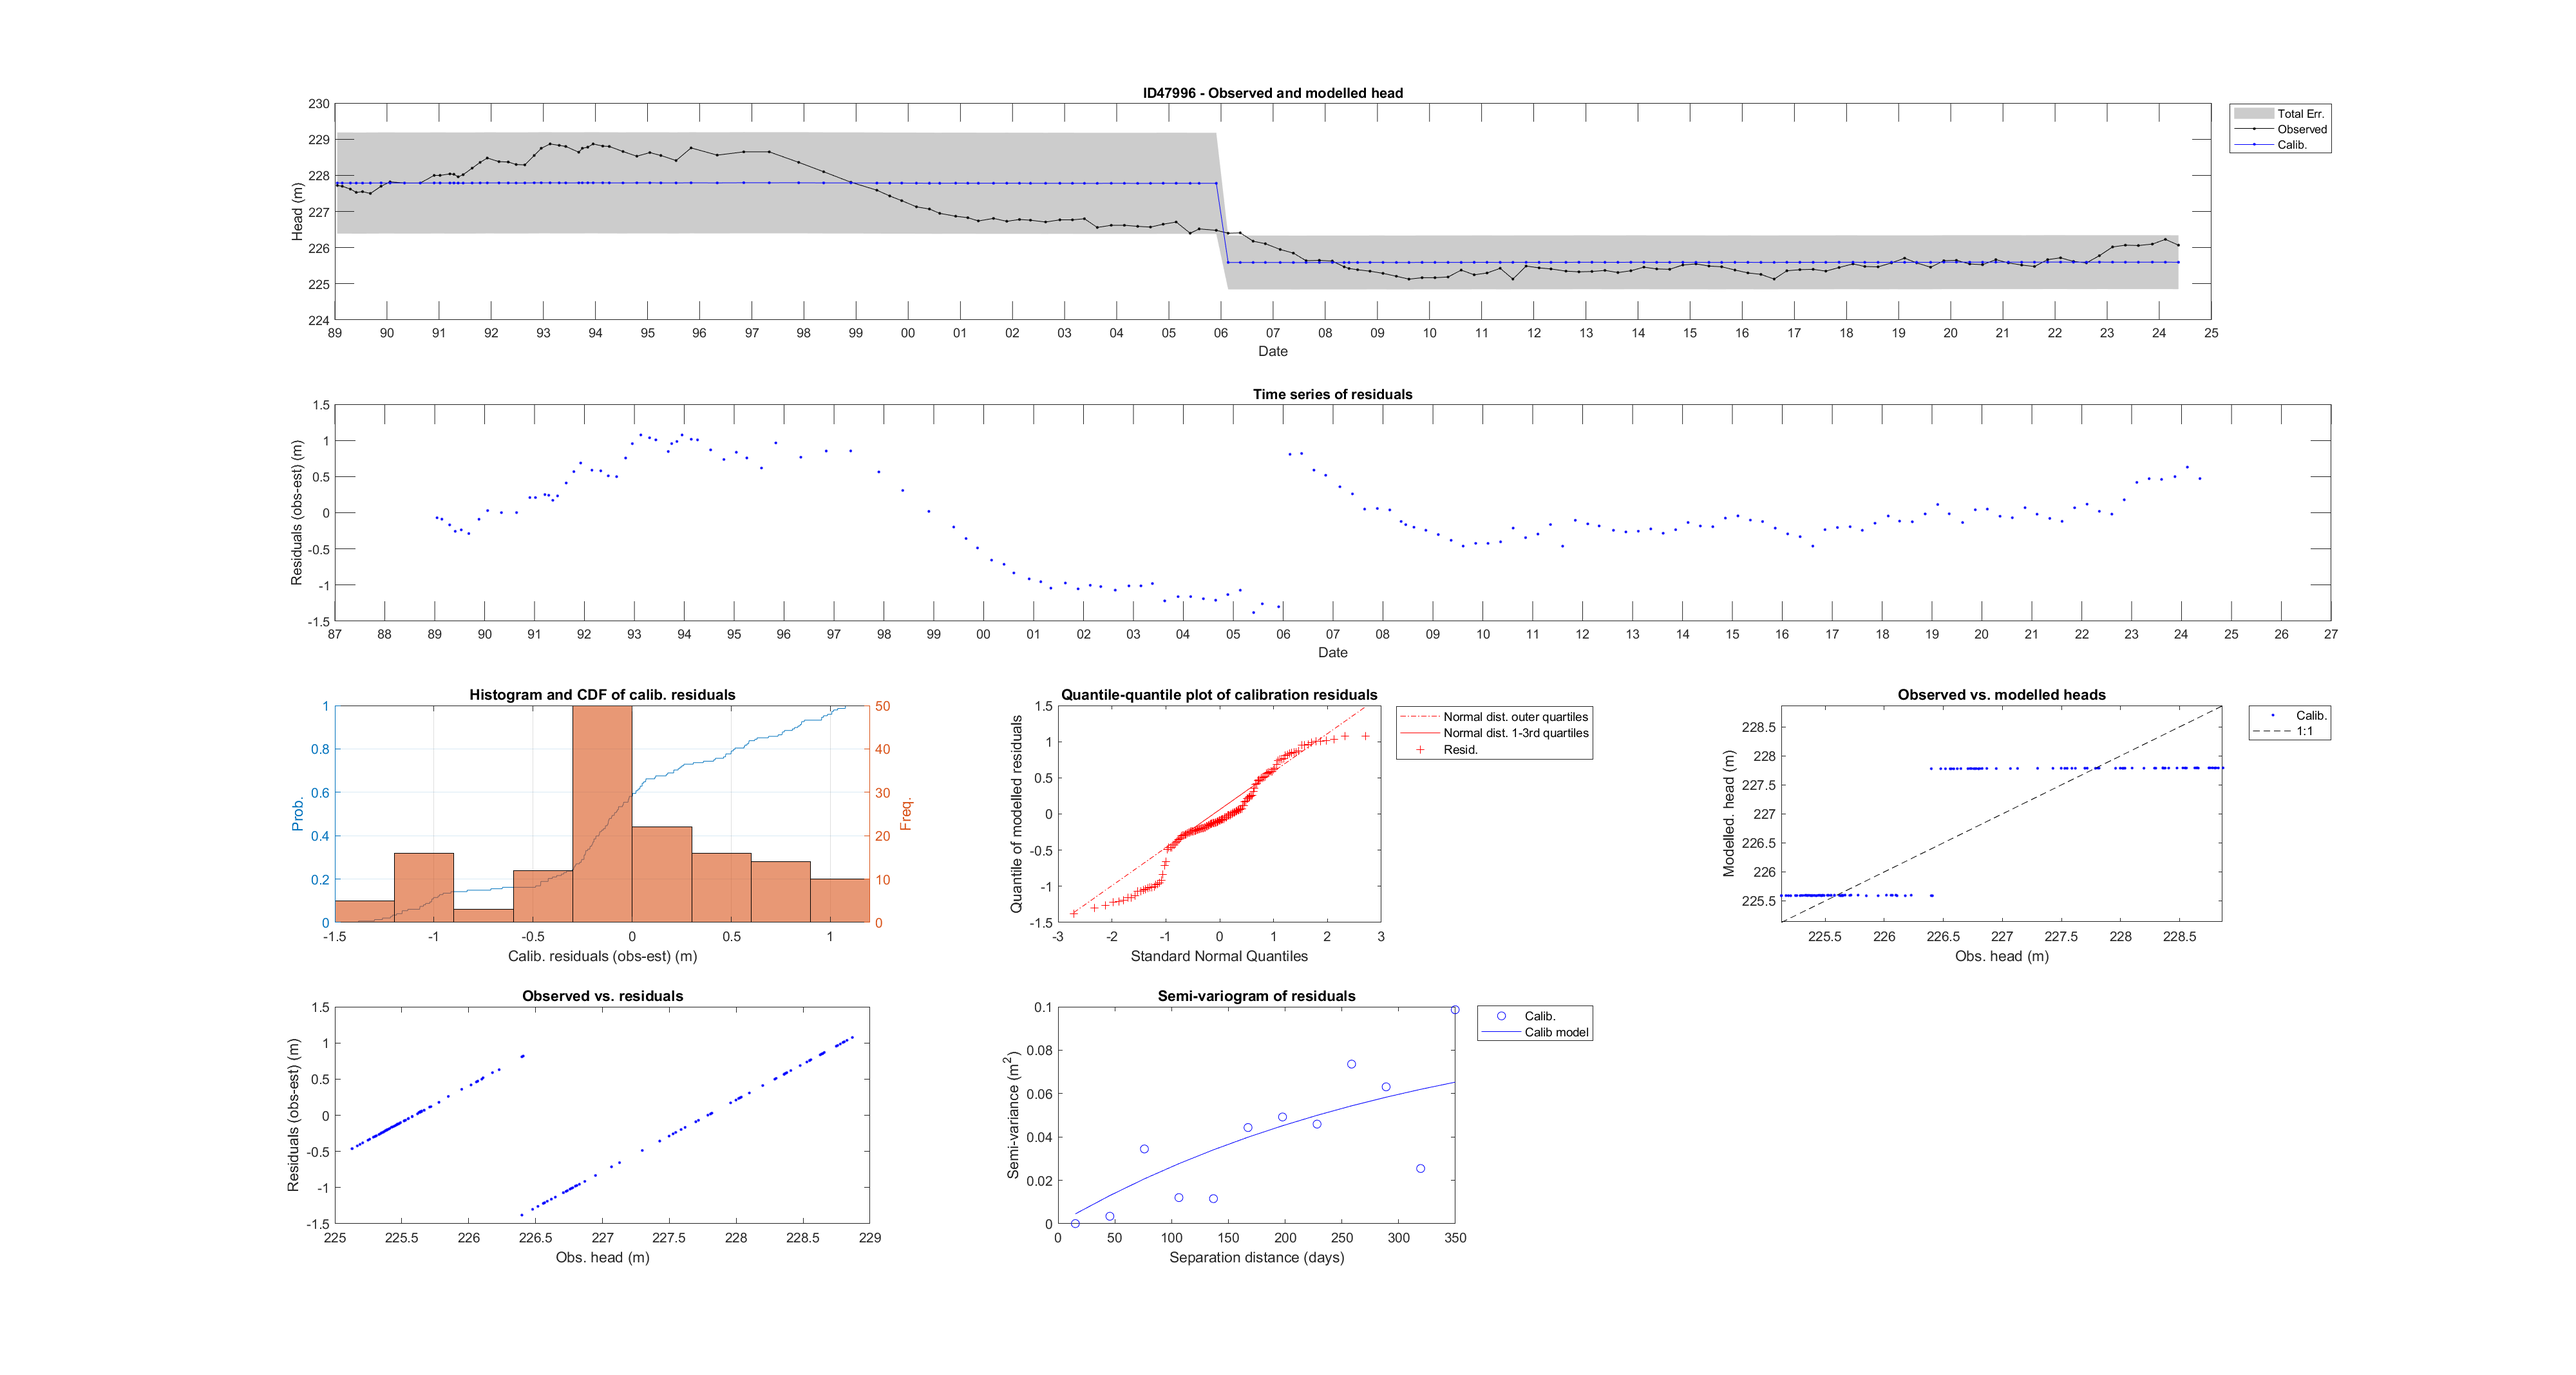
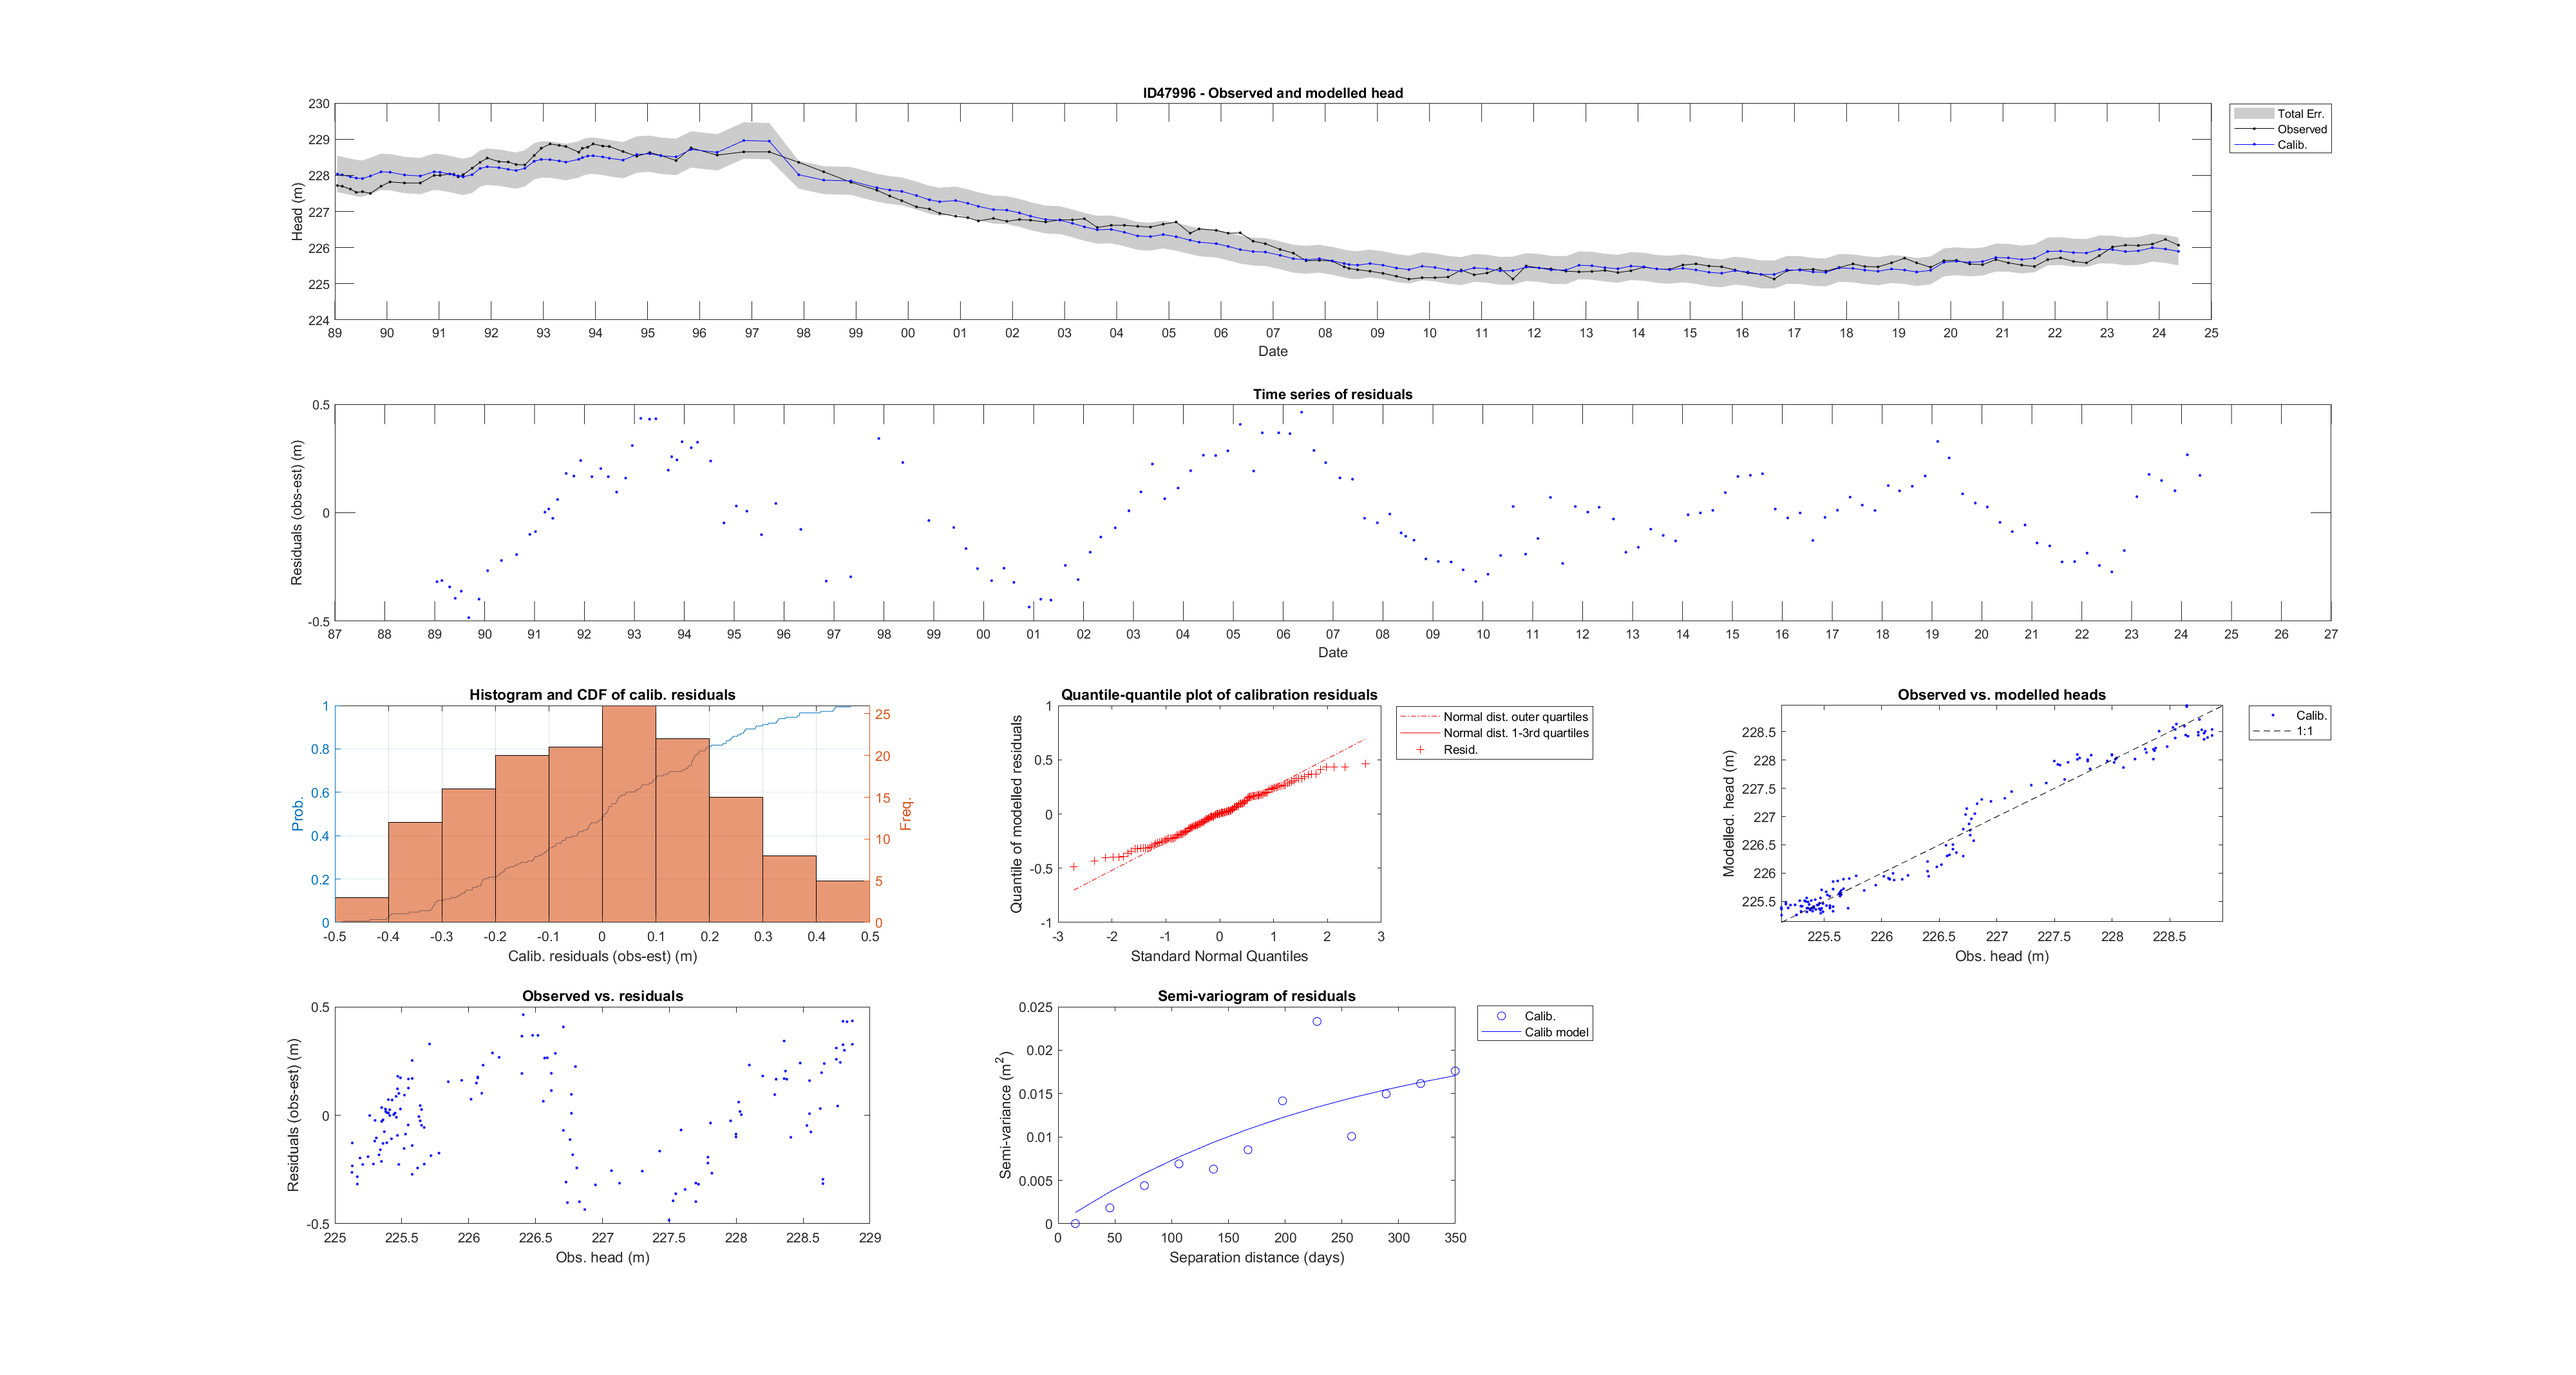
47996

diff --git a/additionalPlots.m b/additionalPlots.m
@@ -8,51 +8,95 @@ list = {'46854','47996','54925','56252','62427','63740','64139','66622', ...
     '108944','110104','110166','110197','110738','111525','111530','111691','112236', ...
     '119429','141235'}';
 
-for k = 1:2 %1:length(list)
-    filename = list{k};
+fourPlotsOneAxes = false;
 
-    % Load Single State model
-    load(filename + "_model_6params_1.mat");
-    time_obs = model_6params.model.inputData.head(:,1);
-    head_obs = model_6params.model.inputData.head(:,2);
-    time_steps_single = model_6params.simulationResults{1,1}.head(:,1);
-    head_1 = model_6params.simulationResults{1,1}.head(:,2);
+if fourPlotsOneAxes == true
+    for k = 2 %1:length(list)
+        filename = list{k};
 
-    clear model_6params;
+        % Load Single State model
+        load(filename + "_model_6params_1.mat");
+        time_obs = model_6params.model.inputData.head(:,1);
+        head_obs = model_6params.model.inputData.head(:,2);
+        time_steps_single = model_6params.simulationResults{1,1}.head(:,1);
+        head_1 = model_6params.simulationResults{1,1}.head(:,2);
 
-    % Load Two State model
-    load(filename + "_model_6params_2.mat");
-    time_steps_two = model_6params.simulationResults{1,1}.head(:,1);
-    head_2 = model_6params.simulationResults{1,1}.head(:,2);
-    
-    figure(k);
-    plot(time_steps_single,head_1,'color', [.5 .5 .5],'LineStyle','--');
-    hold on;
-    plot(time_obs,head_obs,'k');
-    
-    stateHead = model_6params.model.variables.StateHead;
-    stateHead_1 = stateHead;
-    stateHead_2 = stateHead;
+        clear model_6params;
 
-    for j = 1:size(stateHead_1, 1)
-        if stateHead_2(j, 3) == 2
-            stateHead_2(j, 2) = NaN;
+        % Load Two State model
+        load(filename + "_model_6params_2.mat");
+        time_steps_two = model_6params.simulationResults{1,1}.head(:,1);
+        head_2 = model_6params.simulationResults{1,1}.head(:,2);
+
+        figure(k);
+        plot(time_steps_single,head_1,'color', [.5 .5 .5],'LineStyle','--');
+        hold on;
+        plot(time_obs,head_obs,'k');
+
+        stateHead = model_6params.model.variables.StateHead;
+        stateHead_1 = stateHead;
+        stateHead_2 = stateHead;
+
+        for j = 1:size(stateHead_1, 1)
+            if stateHead_2(j, 3) == 2
+                stateHead_2(j, 2) = NaN;
+            end
         end
-    end
 
-    t = time_obs;
-    plot(t, stateHead(:,2),'.-b','LineWidth',0.025);
-    plot(t,stateHead_1(:,2),"Marker",".","Color","r");
-    plot(t,stateHead_2(:,2),"Marker",".","Color",'b');
-    tspan = min(t):1:max(t);
-    filt = day(tspan)==1 & month(tspan)==1;
-    tspan = tspan(filt);
-    yspan = year(tspan);
-    xticks(gca,tspan);
-    xticklabels(gca,yspan);
-    title(['ID' filename ' Two-State Solved Plot Compared to Single-State Solved Plot']);
-    legend('Single State Model','Observed Groundwater Head','State 1','State 2');
-    hold off
-    
-    % ADD Additional h_stars from model_6params.model.variables.h_stars
+        t = time_obs;
+        plot(t, stateHead(:,2),'.-b','LineWidth',0.025);
+        plot(t,stateHead_1(:,2),"Marker",".","Color","r");
+        plot(t,stateHead_2(:,2),"Marker",".","Color",'b');
+        tspan = min(t):1:max(t);
+        filt = day(tspan)==1 & month(tspan)==1;
+        tspan = tspan(filt);
+        yspan = year(tspan);
+        xticks(gca,tspan);
+        xticklabels(gca,yspan);
+        title(['ID' filename ' Two-State Solved Plot Compared to Single-State Solved Plot']);
+        legend('Single State Model','Observed Groundwater Head','State 1','State 2');
+        hold off
+
+        % ADD Additional h_stars from model_6params.model.variables.h_stars
+    end
+end
+
+if fourPlotsOneAxes == false
+    for k = 2 %1:length(list)
+        filename = list{k};
+
+        % Load Two State model
+        load(filename + "_model_6params_2.mat");
+        time_steps = model_6params.simulationResults{1,1}.head(:,1);
+        head_obs = model_6params.model.inputData.head(:,2);
+        head_model1 = model_6params.model.variables.h_stars(:,2); %hstars(:,2)
+        head_model2 = model_6params.model.variables.h_stars(:,3); %hstars(:,3)
+
+        figure(k);
+        plot(time_steps,head_obs,'k');
+        hold on;
+
+        dryIndex = model_6params.model.variables.StateHead;
+        plot(time_steps, dryIndex(:,2),'.-b','LineWidth',0.025);
+        plot(time_steps, head_model1,'.-b','LineWidth',0.025);
+
+        for j = 1:size(dryIndex, 1)
+            if dryIndex(j, 3) == 1
+                dryIndex(j, 2) = NaN;
+            end
+        end
+
+        plot(time_steps,dryIndex(:,2),"Marker",".","Color","r");
+        tspan = min(time_steps):1:max(time_steps);
+        filt = day(tspan)==1 & month(tspan)==1;
+        tspan = tspan(filt);
+        yspan = year(tspan);
+        xticks(gca,tspan);
+        xticklabels(gca,yspan);
+        title(['ID' filename]);
+        legend('Observed Groundwater Head','Wet State','Modelled Wet State','Dry State');
+        hold off
+
+        % ADD Additional h_stars from model_6params.model.variables.h_stars
+    end
 end

diff --git a/loopingSitesPlot.m b/loopingSitesPlot.m
@@ -21,7 +21,7 @@ load("bore_northingeasting.mat");
 
 residualMean = zeros(length(list),2);
 
-for i = 1 %17:length(list)
+for i = 2 %17:length(list)
     filename = list{i};
 
     load(filename + "_boreData.mat");
@@ -55,49 +55,49 @@ for i = 1 %17:length(list)
 
     % % Build the 6 parameter model.
     modelLabel = bore_ID;
-    % 
-    % % HMM 2 State Model
-    % model_6params = HydroSightModel(modelLabel, bore_ID, 'model_TFN_HMM', boreDataWL, maxObsFreq, forcingDataStruct, siteCoordinates, modelOptions_6params);
+
+    % HMM 2 State Model
+    model_6params = HydroSightModel(modelLabel, bore_ID, 'model_TFN_HMM', boreDataWL, maxObsFreq, forcingDataStruct, siteCoordinates, modelOptions_6params);
+    SchemeSetting.ngs = 12*12;
+    calibrateModel(model_6params, [], 0, inf, 'SP-UCI', SchemeSetting);
+    calibrateModelPlotResults(model_6params,[]);
+    calibratedPlot_twoState = gca;
+    saveas(gca,['downloads/plots/' filename '_calibratedPlot.png']);
+
+    time_points = model_6params.model.variables.time_points;
+    newForcingData = [];
+    simulationLabel = 'default simulation';
+    doKrigingOnResiduals = false;    
+
+    solveModel(model_6params, time_points, newForcingData, simulationLabel, doKrigingOnResiduals);
+    title([bore_ID ' Two-State Solved Plot']);
+    solvedPlot_twoState = gca;
+    saveas(gca,['downloads/plots/' filename '_solved2StatePlot.png']);
+    residualMean(i,1) = model_6params.model.variables.residualMean;
+    save(['downloads/plots/' filename '_model_6params_2.mat'],"model_6params");
+    clear model_6params;
+
+    % HMM 1 State Model
+    % model_6params = HydroSightModel(modelLabel, bore_ID, 'model_TFN_HMM_2', boreDataWL, maxObsFreq, forcingDataStruct, siteCoordinates, modelOptions_6params);
     % SchemeSetting.ngs = 10*12;
     % calibrateModel(model_6params, [], 0, inf, 'SP-UCI', SchemeSetting);
     % calibrateModelPlotResults(model_6params,[]);
-    % calibratedPlot_twoState = gca;
-    % saveas(gca,['downloads/plots/' filename '_calibratedPlot.png']);
+    % calibratedPlot_singleState = gca;
+    % saveas(gca,['downloads/plots/' filename '_calibratedPlot_singlestate.png']);
     % 
     % time_points = model_6params.model.variables.time_points;
     % newForcingData = [];
     % simulationLabel = 'default simulation';
     % doKrigingOnResiduals = false;    
     % 
-    % solveModel(model_6params, time_points, newForcingData, simulationLabel, doKrigingOnResiduals);
-    % title([bore_ID ' Two-State Solved Plot']);
-    % solvedPlot_twoState = gca;
-    % saveas(gca,['downloads/plots/' filename '_solved2StatePlot.png']);
-    % residualMean(i,1) = model_6params.model.variables.residualMean;
-    % save(['downloads/plots/' filename '_model_6params_2.mat'],"model_6params");
-    % clear model_6params;
-
-    % HMM 1 State Model
-    model_6params = HydroSightModel(modelLabel, bore_ID, 'model_TFN_HMM_2', boreDataWL, maxObsFreq, forcingDataStruct, siteCoordinates, modelOptions_6params);
-    SchemeSetting.ngs = 10*12;
-    calibrateModel(model_6params, [], 0, inf, 'SP-UCI', SchemeSetting);
-    calibrateModelPlotResults(model_6params,[]);
-    calibratedPlot_singleState = gca;
-    saveas(gca,['downloads/plots/' filename '_calibratedPlot_singlestate.png']);
-
-    time_points = model_6params.model.variables.time_points;
-    newForcingData = [];
-    simulationLabel = 'default simulation';
-    doKrigingOnResiduals = false;    
-    
-    solveModel(model_6params, time_points, newForcingData, simulationLabel, doKrigingOnResiduals);  
-    title([bore_ID ' One-State Solved Plot']);
-    solvedPlot_singleState = gca;
-    saveas(gca,['downloads/plots/' filename '_solved1StatePlot.png']);
-    residualMean(i,2) = model_6params.model.variables.residualMean;
-    % save('downloads/plots/meanresiudals.mat',"residualMean");
-    close all;
-    save(['downloads/plots/' filename '_model_6params_1.mat'],"model_6params");
+    % solveModel(model_6params, time_points, newForcingData, simulationLabel, doKrigingOnResiduals);  
+    % title([bore_ID ' One-State Solved Plot']);
+    % solvedPlot_singleState = gca;
+    % saveas(gca,['downloads/plots/' filename '_solved1StatePlot.png']);
+    % residualMean(i,2) = model_6params.model.variables.residualMean;
+    % % save('downloads/plots/meanresiudals.mat',"residualMean");
+    % close all;
+    % save(['downloads/plots/' filename '_model_6params_1.mat'],"model_6params");
 end
 
 % Save a zip file of the plots as a back up that can more easily be moved

diff --git a/AIC.m b/AIC.m
@@ -1,11 +1,16 @@
 close all; clear; clc;
+addpath(genpath("downloads"));
+addpath("downloads/raw/");
+addpath("downloads/cleaned/");
 
-load("62427_model_6params_1.mat");
+filename = "47996";
+
+load(filename + "_model_6params_1.mat");
 loglikelihood = model_6params.model.variables.objFn;
 parameters_number = length(model_6params.model.variables.param_names);
 aic = 2 * parameters_number + 2 * loglikelihood;
 
-load("62427_model_6params_2.mat");
+load(filename + "_model_6params_2.mat");
 loglikelihood_2 = model_6params.model.variables.objFn;
 parameters_number_2 = length(model_6params.model.variables.param_names);
 aic_2 = 2 * parameters_number_2 + 2 * loglikelihood_2;
